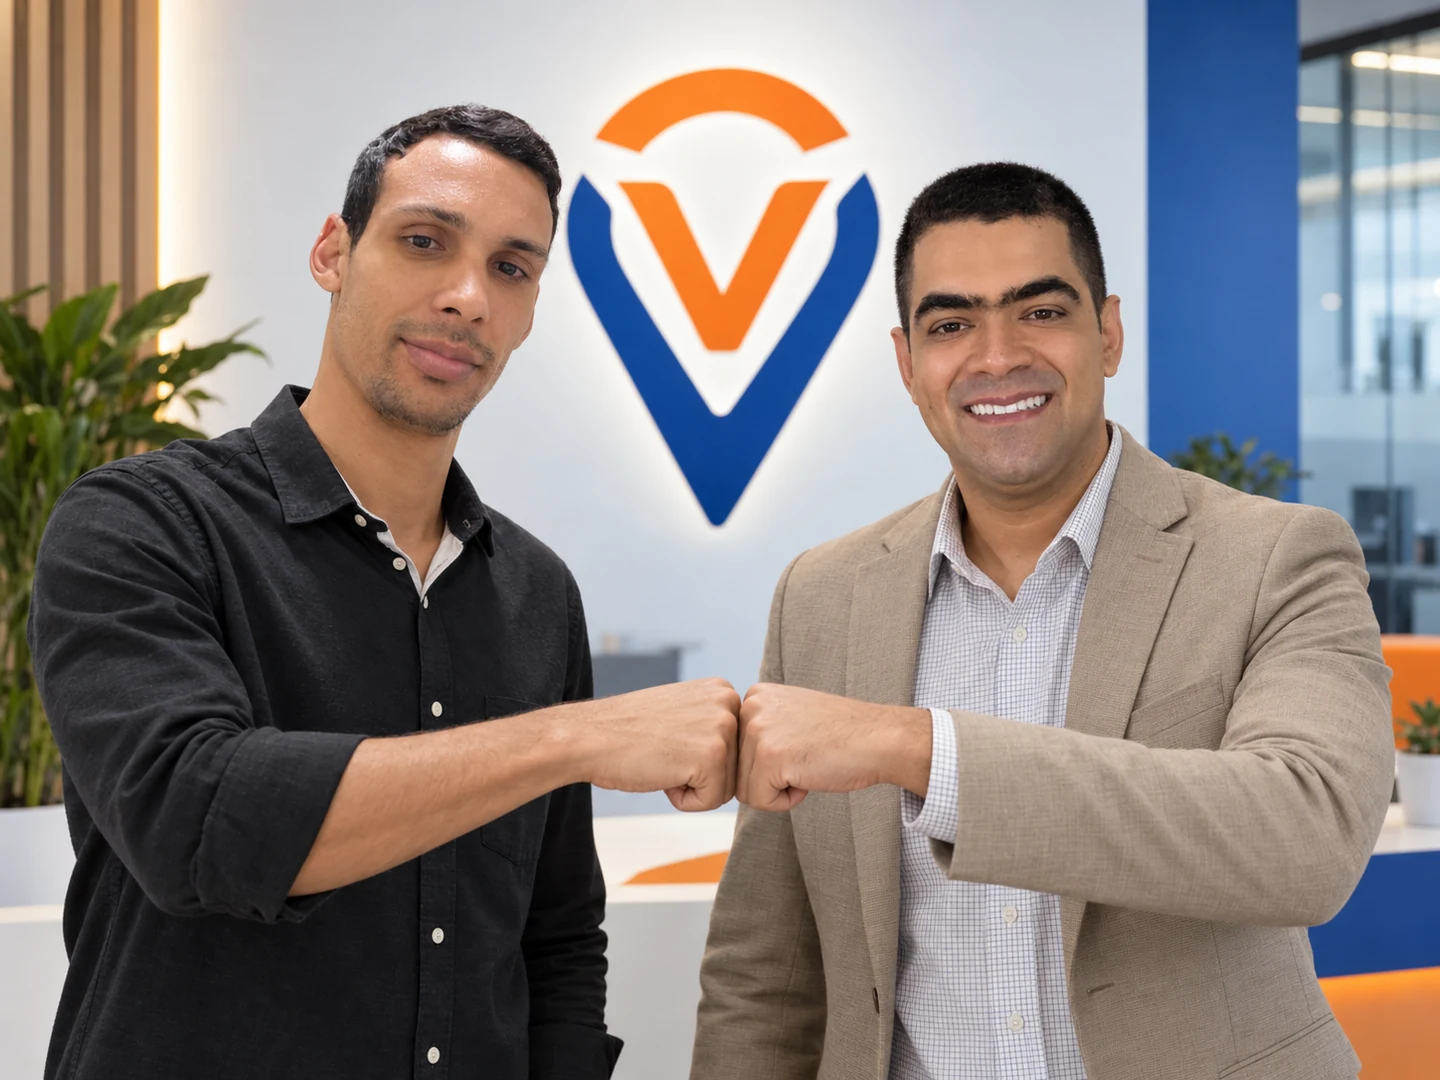
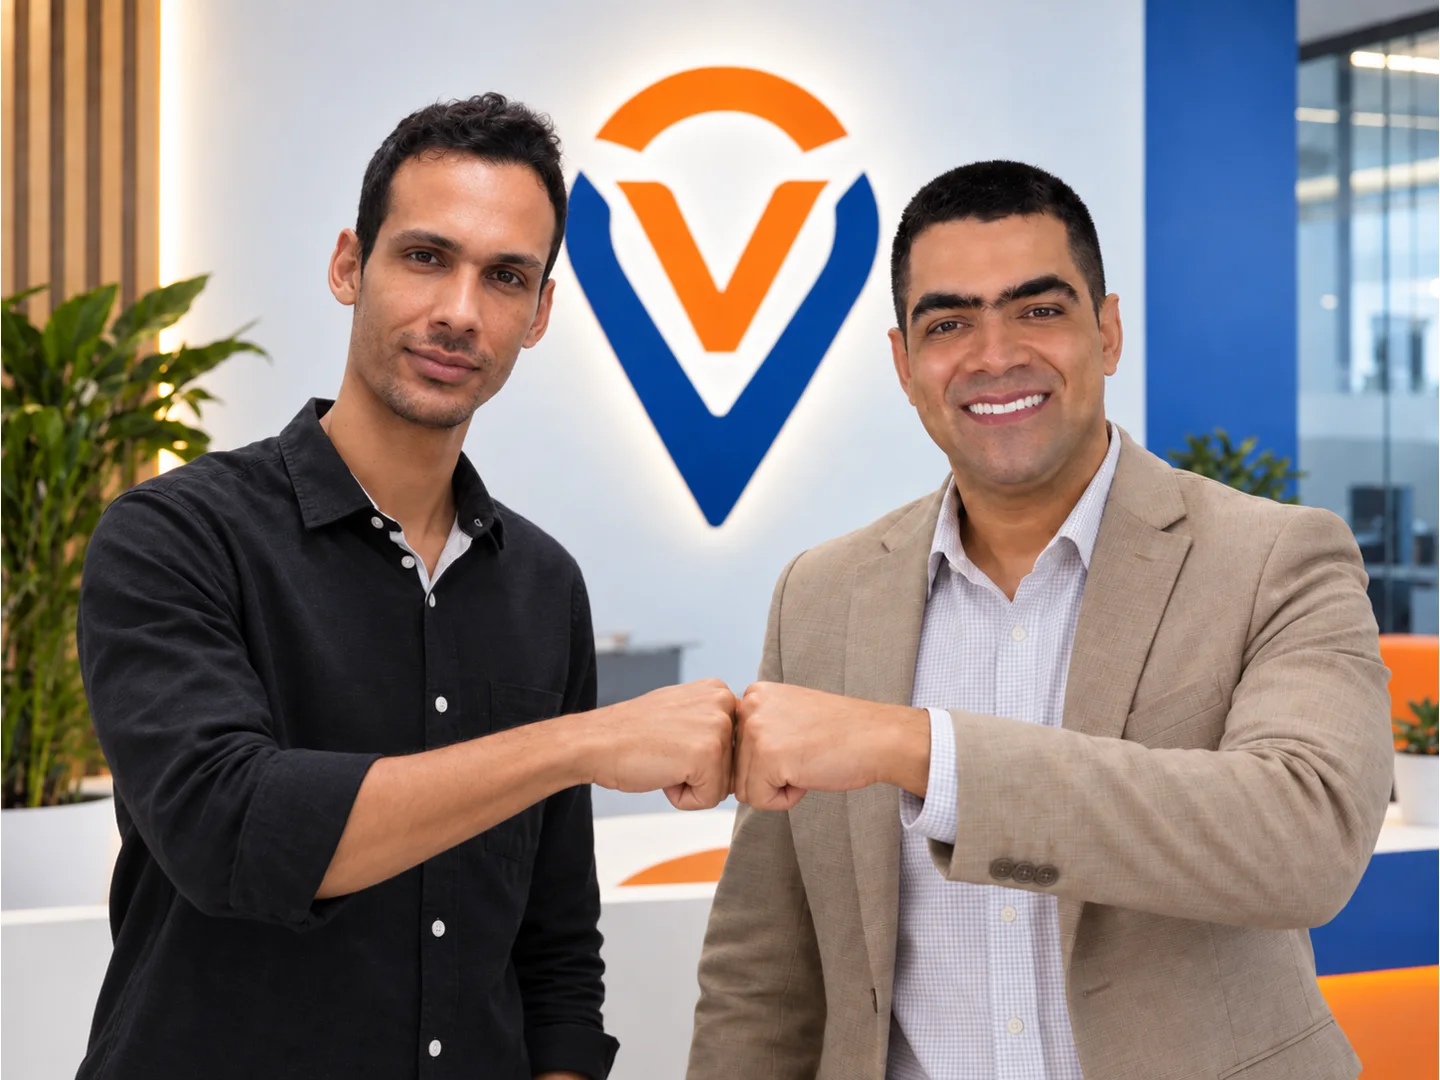
feat(public): refresh team photography

diff --git a/vecidya-platform/app/routes/about.tsx b/vecidya-platform/app/routes/about.tsx
@@ -31,7 +31,7 @@ export default function About() {
           <figure className="about-experience-hero__photo">
             <picture>
               <source media="(max-width: 768px)" srcSet={publicAssets.about.teamMobile} />
-              <img alt="Yoan y Edgar juntos frente al símbolo de Vecidya" decoding="async" height={1086} src={publicAssets.about.team} width={1448} />
+              <img alt="Yoan y Edgar juntos frente al símbolo de Vecidya" decoding="async" height={1080} src={publicAssets.about.team} width={1440} />
             </picture>
             <figcaption>Dos perspectivas. Un mismo punto de partida: entender antes de construir.</figcaption>
           </figure>
@@ -55,7 +55,7 @@ export default function About() {
           </div>
           <div className="about-team-grid">
             <article className="about-person-card">
-              <img alt="Yoan Ortiz" decoding="async" height={750} loading="lazy" src={publicAssets.about.yoan} width={600} />
+              <img alt="Yoan Ortiz" decoding="async" height={1402} loading="lazy" src={publicAssets.about.yoan} width={1122} />
               <div>
                 <p className="eyebrow">TECNOLOGÍA · PRODUCTO</p>
                 <h3>Yoan Ortiz</h3>
@@ -64,7 +64,7 @@ export default function About() {
               </div>
             </article>
             <article className="about-person-card">
-              <img alt="Edgar" decoding="async" height={750} loading="lazy" src={publicAssets.about.edgar} width={600} />
+              <img alt="Edgar" decoding="async" height={1402} loading="lazy" src={publicAssets.about.edgar} width={1122} />
               <div>
                 <p className="eyebrow">CLIENTES · DESARROLLO</p>
                 <h3>Edgar</h3>

diff --git a/vecidya-platform/docs/CHANGELOG.md b/vecidya-platform/docs/CHANGELOG.md
@@ -1,5 +1,12 @@
 # Changelog
 
+## 2026-09-23 — Actualización de fotografía del equipo (`v0.3.0`, local)
+
+- Reemplazadas las fotografías de Yoan Ortiz, Edgar y el equipo por los assets entregados en `C:\Users\Admin\Downloads\fotos`.
+- Convertidas a WebP optimizado y conservadas las rutas públicas existentes para no romper referencias.
+- Ajustadas las dimensiones declaradas de las imágenes en `/sobre-nosotros` para evitar layout shift.
+- Cambio local sin push ni deploy; producción conserva la fotografía anterior hasta una publicación autorizada.
+
 ## 2026-09-23 — REL-003.1 Publish `0.3.0` (`LIVE`)
 
 - Push autorizado completado: `origin/main` apunta a `ca629eb`.
